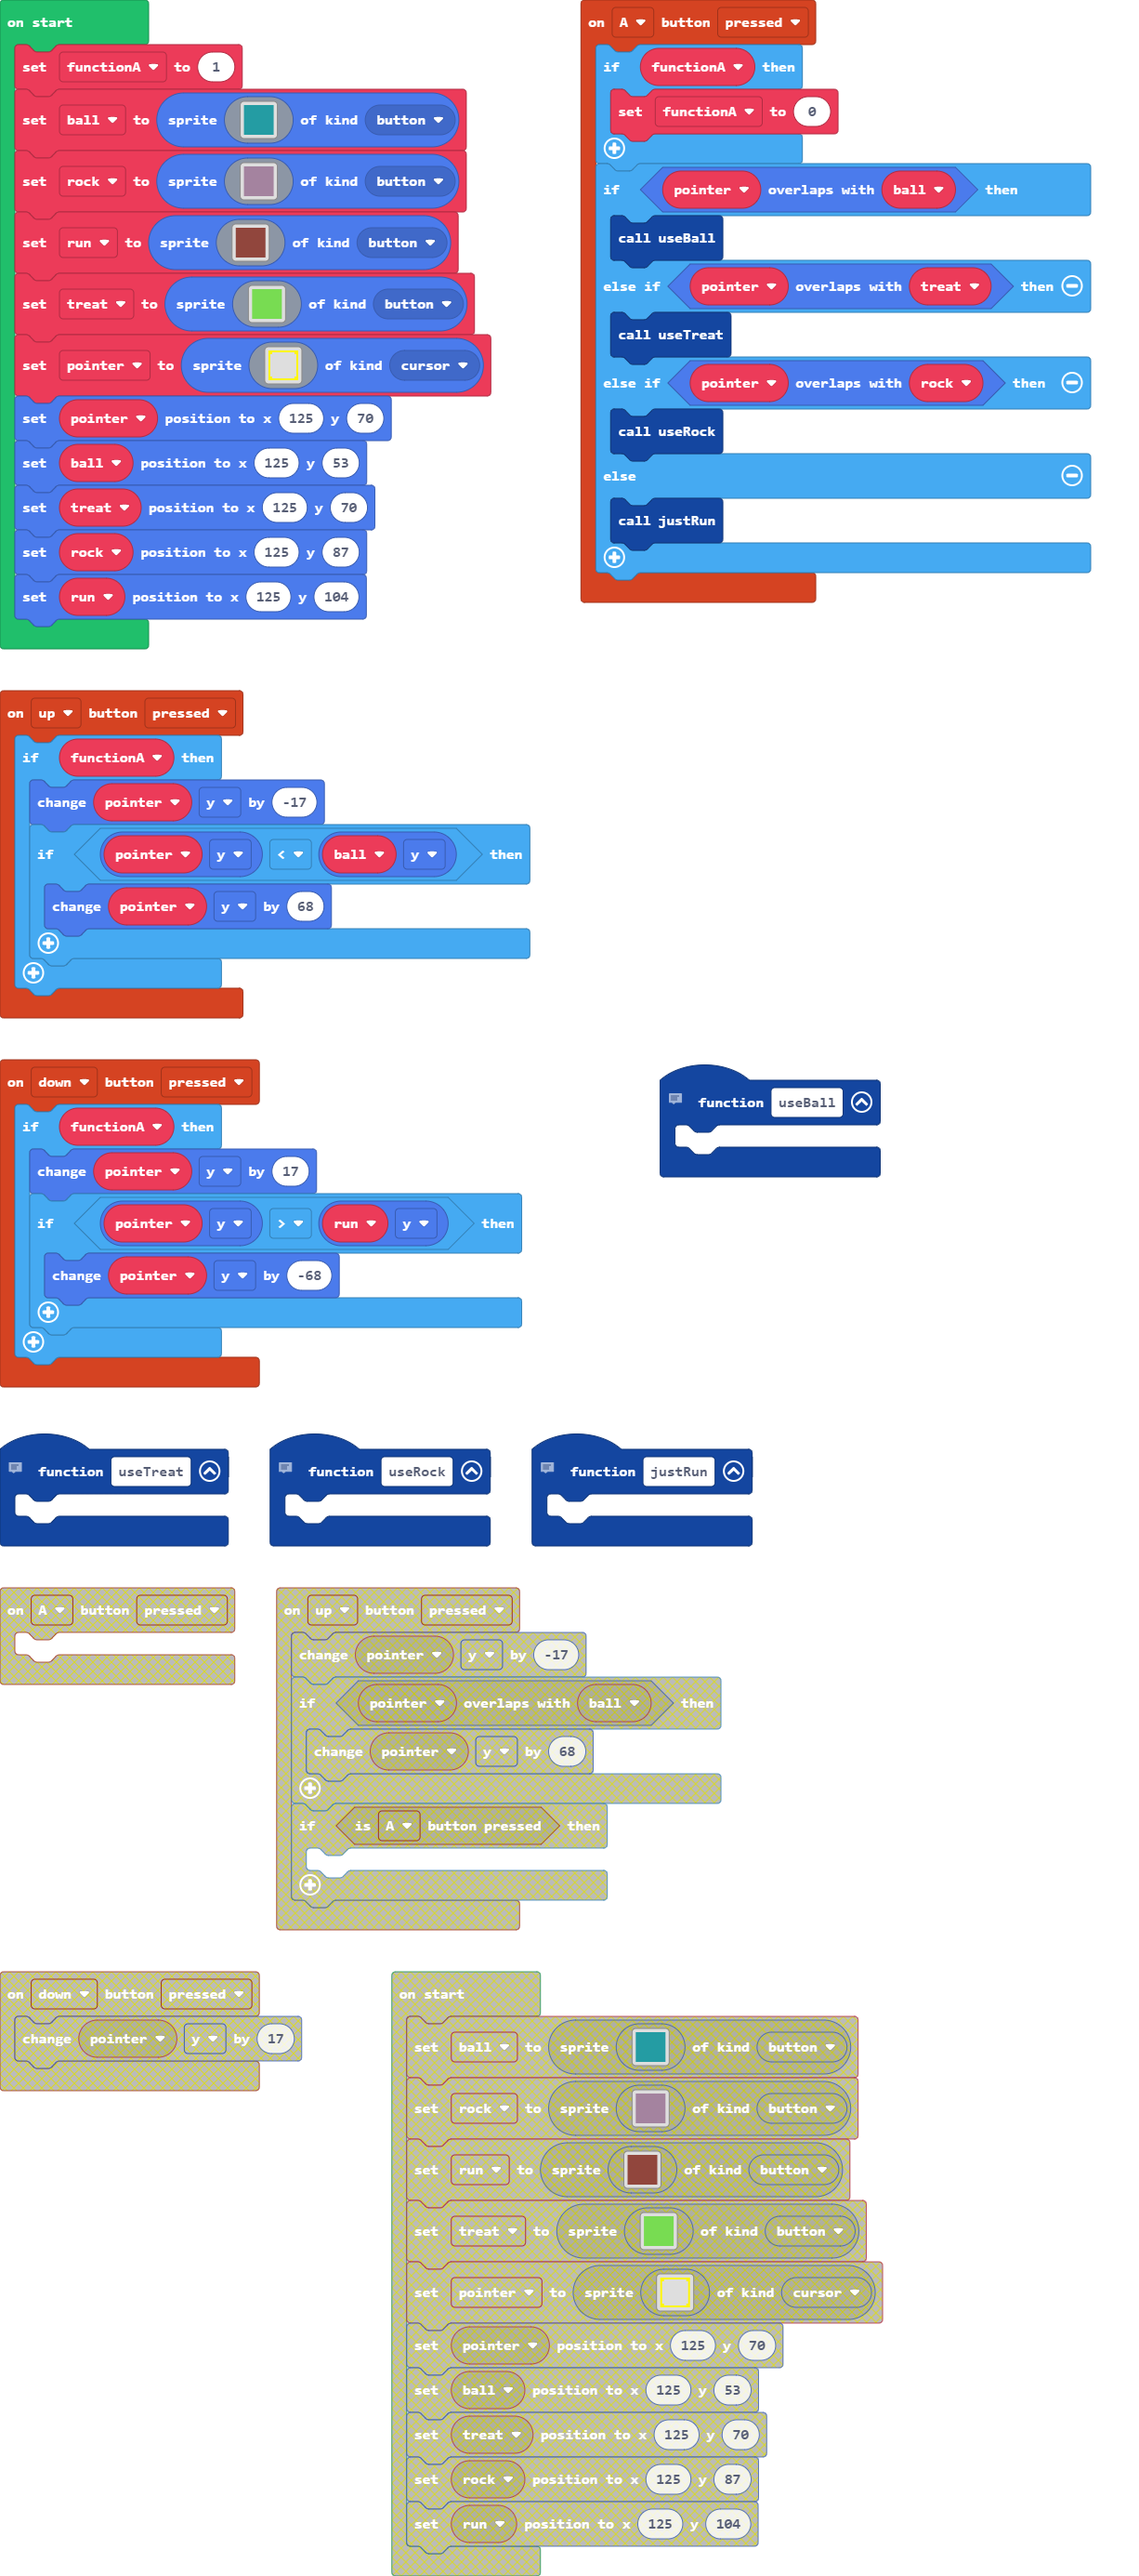
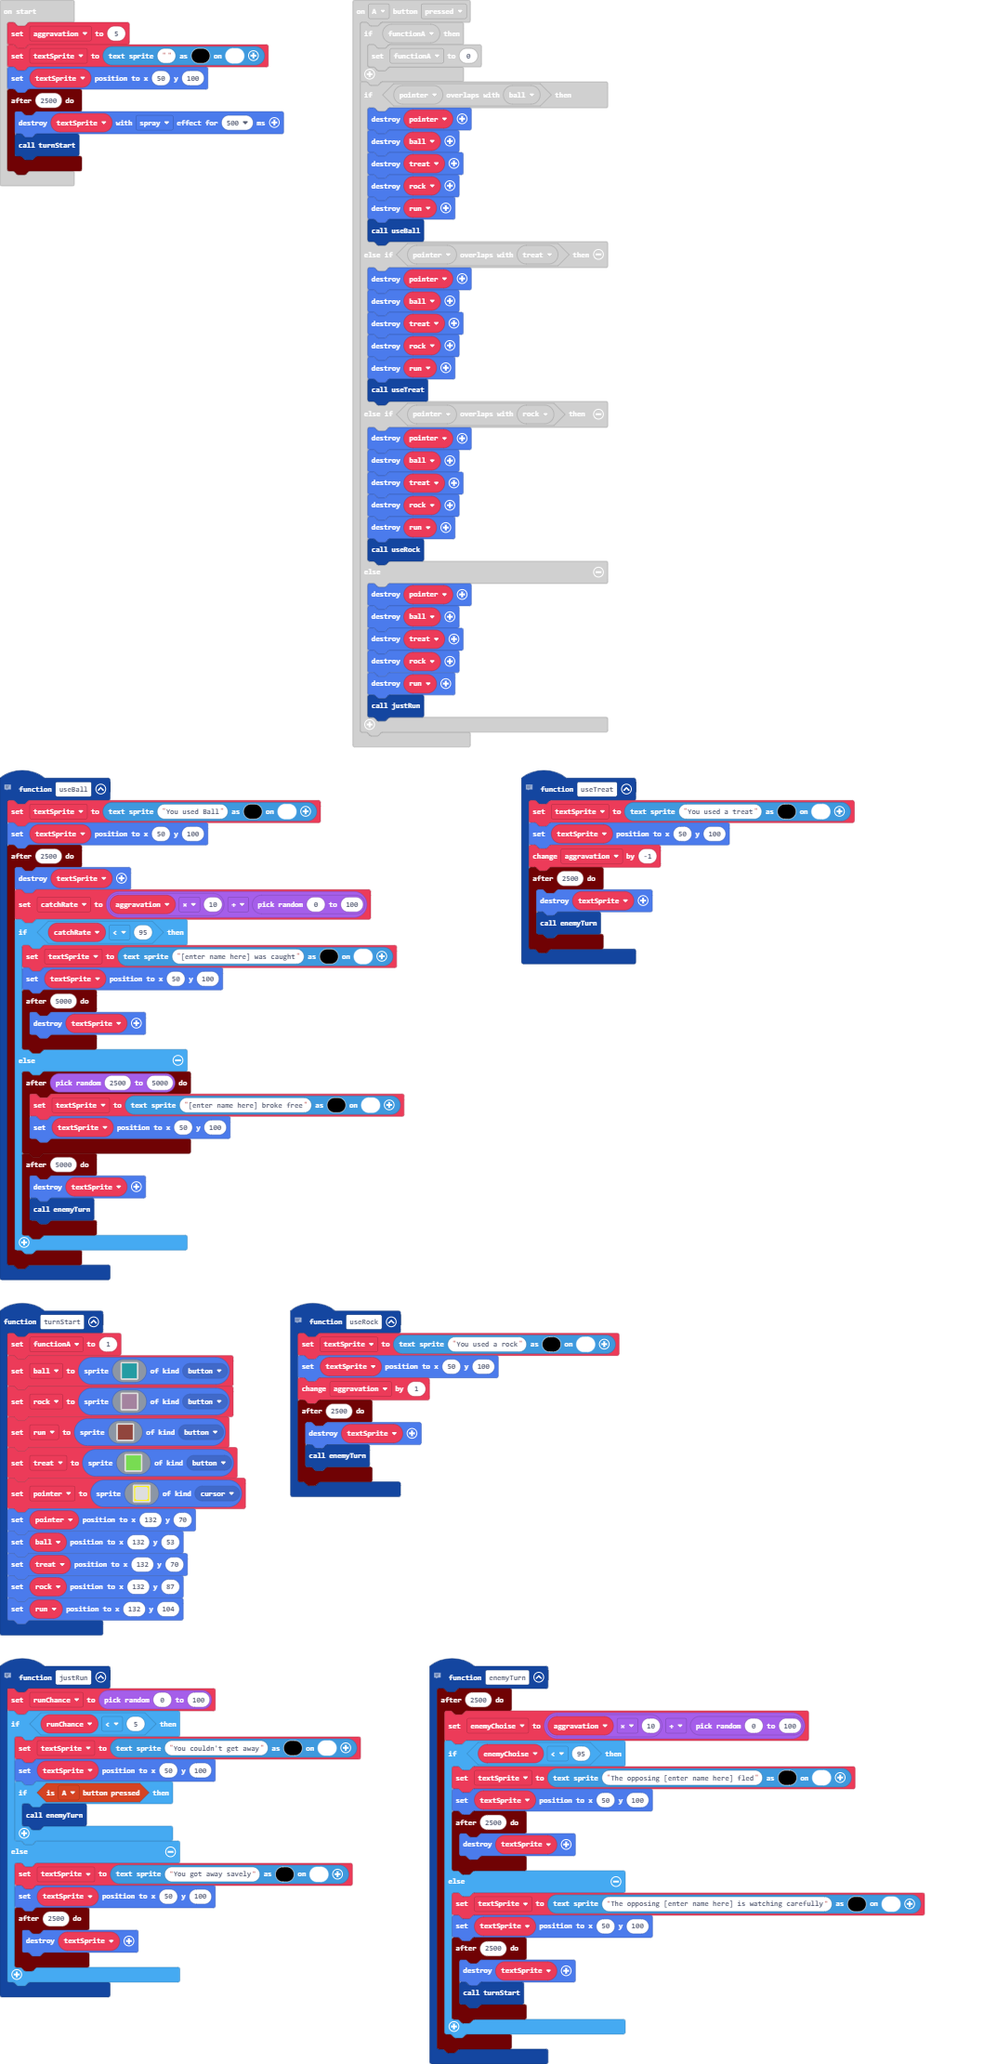
made more (functional) progress

diff --git a/main.ts b/main.ts
@@ -4,7 +4,13 @@ namespace SpriteKind {
 }
 // makes the player use a treat, wich makes it easier to catch, but more likely to run
 function useTreat () {
-	
+    textSprite = textsprite.create("You used a treat", 1, 15)
+    textSprite.setPosition(50, 100)
+    aggravation += -1
+    timer.after(2500, function () {
+        textSprite.destroy()
+        enemyTurn()
+    })
 }
 controller.up.onEvent(ControllerButtonEvent.Pressed, function () {
     if (functionA) {
@@ -19,22 +25,159 @@ controller.A.onEvent(ControllerButtonEvent.Pressed, function () {
         functionA = 0
     }
     if (pointer.overlapsWith(ball)) {
+        pointer.destroy()
+        ball.destroy()
+        treat.destroy()
+        rock.destroy()
+        run.destroy()
         useBall()
     } else if (pointer.overlapsWith(treat)) {
+        pointer.destroy()
+        ball.destroy()
+        treat.destroy()
+        rock.destroy()
+        run.destroy()
         useTreat()
     } else if (pointer.overlapsWith(rock)) {
+        pointer.destroy()
+        ball.destroy()
+        treat.destroy()
+        rock.destroy()
+        run.destroy()
         useRock()
     } else {
+        pointer.destroy()
+        ball.destroy()
+        treat.destroy()
+        rock.destroy()
+        run.destroy()
         justRun()
     }
 })
 // throw a rock to deal damage, making it harder to catch, but less likely to run
 function useRock () {
-	
+    textSprite = textsprite.create("You used a rock", 1, 15)
+    textSprite.setPosition(50, 100)
+    aggravation += 1
+    timer.after(2500, function () {
+        textSprite.destroy()
+        enemyTurn()
+    })
+}
+function turnStart () {
+    functionA = 1
+    ball = sprites.create(img`
+        6 6 6 6 6 6 6 6 6 6 6 6 6 6 6 6 
+        6 6 6 6 6 6 6 6 6 6 6 6 6 6 6 6 
+        6 6 6 6 6 6 6 6 6 6 6 6 6 6 6 6 
+        6 6 6 6 6 6 6 6 6 6 6 6 6 6 6 6 
+        6 6 6 6 6 6 6 6 6 6 6 6 6 6 6 6 
+        6 6 6 6 6 6 6 6 6 6 6 6 6 6 6 6 
+        6 6 6 6 6 6 6 6 6 6 6 6 6 6 6 6 
+        6 6 6 6 6 6 6 6 6 6 6 6 6 6 6 6 
+        6 6 6 6 6 6 6 6 6 6 6 6 6 6 6 6 
+        6 6 6 6 6 6 6 6 6 6 6 6 6 6 6 6 
+        6 6 6 6 6 6 6 6 6 6 6 6 6 6 6 6 
+        6 6 6 6 6 6 6 6 6 6 6 6 6 6 6 6 
+        6 6 6 6 6 6 6 6 6 6 6 6 6 6 6 6 
+        6 6 6 6 6 6 6 6 6 6 6 6 6 6 6 6 
+        6 6 6 6 6 6 6 6 6 6 6 6 6 6 6 6 
+        6 6 6 6 6 6 6 6 6 6 6 6 6 6 6 6 
+        `, SpriteKind.button)
+    rock = sprites.create(img`
+        b b b b b b b b b b b b b b b b 
+        b b b b b b b b b b b b b b b b 
+        b b b b b b b b b b b b b b b b 
+        b b b b b b b b b b b b b b b b 
+        b b b b b b b b b b b b b b b b 
+        b b b b b b b b b b b b b b b b 
+        b b b b b b b b b b b b b b b b 
+        b b b b b b b b b b b b b b b b 
+        b b b b b b b b b b b b b b b b 
+        b b b b b b b b b b b b b b b b 
+        b b b b b b b b b b b b b b b b 
+        b b b b b b b b b b b b b b b b 
+        b b b b b b b b b b b b b b b b 
+        b b b b b b b b b b b b b b b b 
+        b b b b b b b b b b b b b b b b 
+        b b b b b b b b b b b b b b b b 
+        `, SpriteKind.button)
+    run = sprites.create(img`
+        e e e e e e e e e e e e e e e e 
+        e e e e e e e e e e e e e e e e 
+        e e e e e e e e e e e e e e e e 
+        e e e e e e e e e e e e e e e e 
+        e e e e e e e e e e e e e e e e 
+        e e e e e e e e e e e e e e e e 
+        e e e e e e e e e e e e e e e e 
+        e e e e e e e e e e e e e e e e 
+        e e e e e e e e e e e e e e e e 
+        e e e e e e e e e e e e e e e e 
+        e e e e e e e e e e e e e e e e 
+        e e e e e e e e e e e e e e e e 
+        e e e e e e e e e e e e e e e e 
+        e e e e e e e e e e e e e e e e 
+        e e e e e e e e e e e e e e e e 
+        e e e e e e e e e e e e e e e e 
+        `, SpriteKind.button)
+    treat = sprites.create(img`
+        7 7 7 7 7 7 7 7 7 7 7 7 7 7 7 7 
+        7 7 7 7 7 7 7 7 7 7 7 7 7 7 7 7 
+        7 7 7 7 7 7 7 7 7 7 7 7 7 7 7 7 
+        7 7 7 7 7 7 7 7 7 7 7 7 7 7 7 7 
+        7 7 7 7 7 7 7 7 7 7 7 7 7 7 7 7 
+        7 7 7 7 7 7 7 7 7 7 7 7 7 7 7 7 
+        7 7 7 7 7 7 7 7 7 7 7 7 7 7 7 7 
+        7 7 7 7 7 7 7 7 7 7 7 7 7 7 7 7 
+        7 7 7 7 7 7 7 7 7 7 7 7 7 7 7 7 
+        7 7 7 7 7 7 7 7 7 7 7 7 7 7 7 7 
+        7 7 7 7 7 7 7 7 7 7 7 7 7 7 7 7 
+        7 7 7 7 7 7 7 7 7 7 7 7 7 7 7 7 
+        7 7 7 7 7 7 7 7 7 7 7 7 7 7 7 7 
+        7 7 7 7 7 7 7 7 7 7 7 7 7 7 7 7 
+        7 7 7 7 7 7 7 7 7 7 7 7 7 7 7 7 
+        7 7 7 7 7 7 7 7 7 7 7 7 7 7 7 7 
+        `, SpriteKind.button)
+    pointer = sprites.create(img`
+        5 5 5 5 5 5 5 5 5 5 5 5 5 5 5 5 
+        5 5 . . . . . . . . . . . . 5 5 
+        5 . . . . . . . . . . . . . . 5 
+        5 . . . . . . . . . . . . . . 5 
+        5 . . . . . . . . . . . . . . 5 
+        5 . . . . . . . . . . . . . . 5 
+        5 . . . . . . . . . . . . . . 5 
+        5 . . . . . . . . . . . . . . 5 
+        5 . . . . . . . . . . . . . . 5 
+        5 . . . . . . . . . . . . . . 5 
+        5 . . . . . . . . . . . . . . 5 
+        5 . . . . . . . . . . . . . . 5 
+        5 . . . . . . . . . . . . . . 5 
+        5 . . . . . . . . . . . . . . 5 
+        5 5 . . . . . . . . . . . . 5 5 
+        5 5 5 5 5 5 5 5 5 5 5 5 5 5 5 5 
+        `, SpriteKind.cursor)
+    pointer.setPosition(132, 70)
+    ball.setPosition(132, 53)
+    treat.setPosition(132, 70)
+    rock.setPosition(132, 87)
+    run.setPosition(132, 104)
 }
 // make it return to the map here
 function justRun () {
-	
+    runChance = randint(0, 100)
+    if (runChance < 5) {
+        textSprite = textsprite.create("You couldn't get away", 1, 15)
+        textSprite.setPosition(50, 100)
+        if (controller.A.isPressed()) {
+            enemyTurn()
+        }
+    } else {
+        textSprite = textsprite.create("You got away savely", 1, 15)
+        textSprite.setPosition(50, 100)
+        timer.after(2500, function () {
+            textSprite.destroy()
+        })
+    }
 }
 controller.down.onEvent(ControllerButtonEvent.Pressed, function () {
     if (functionA) {
@@ -44,109 +187,66 @@ controller.down.onEvent(ControllerButtonEvent.Pressed, function () {
         }
     }
 })
+// make the enemy make its move
+function enemyTurn () {
+    timer.after(2500, function () {
+        enemyChoise = aggravation * 10 + randint(0, 100)
+        if (enemyChoise < 95) {
+            textSprite = textsprite.create("The opposing [enter name here] fled", 1, 15)
+            textSprite.setPosition(50, 100)
+            timer.after(2500, function () {
+                textSprite.destroy()
+            })
+        } else {
+            textSprite = textsprite.create("The opposing [enter name here] is watching carefully", 1, 15)
+            textSprite.setPosition(50, 100)
+            timer.after(2500, function () {
+                textSprite.destroy()
+                turnStart()
+            })
+        }
+    })
+}
 // makes the player throw the ball if selected
 function useBall () {
-	
+    textSprite = textsprite.create("You used Ball", 1, 15)
+    textSprite.setPosition(50, 100)
+    timer.after(2500, function () {
+        textSprite.destroy()
+        catchRate = aggravation * 10 + randint(0, 100)
+        if (catchRate < 95) {
+            textSprite = textsprite.create("[enter name here] was caught", 1, 15)
+            textSprite.setPosition(50, 100)
+            timer.after(5000, function () {
+                textSprite.destroy()
+            })
+        } else {
+            timer.after(randint(2500, 5000), function () {
+                textSprite = textsprite.create("[enter name here] broke free", 1, 15)
+                textSprite.setPosition(50, 100)
+            })
+            timer.after(5000, function () {
+                textSprite.destroy()
+                enemyTurn()
+            })
+        }
+    })
 }
-let pointer: Sprite = null
-let treat: Sprite = null
+let catchRate = 0
+let enemyChoise = 0
+let runChance = 0
 let run: Sprite = null
 let rock: Sprite = null
+let treat: Sprite = null
 let ball: Sprite = null
+let pointer: Sprite = null
 let functionA = 0
-functionA = 1
-ball = sprites.create(img`
-    6 6 6 6 6 6 6 6 6 6 6 6 6 6 6 6 
-    6 6 6 6 6 6 6 6 6 6 6 6 6 6 6 6 
-    6 6 6 6 6 6 6 6 6 6 6 6 6 6 6 6 
-    6 6 6 6 6 6 6 6 6 6 6 6 6 6 6 6 
-    6 6 6 6 6 6 6 6 6 6 6 6 6 6 6 6 
-    6 6 6 6 6 6 6 6 6 6 6 6 6 6 6 6 
-    6 6 6 6 6 6 6 6 6 6 6 6 6 6 6 6 
-    6 6 6 6 6 6 6 6 6 6 6 6 6 6 6 6 
-    6 6 6 6 6 6 6 6 6 6 6 6 6 6 6 6 
-    6 6 6 6 6 6 6 6 6 6 6 6 6 6 6 6 
-    6 6 6 6 6 6 6 6 6 6 6 6 6 6 6 6 
-    6 6 6 6 6 6 6 6 6 6 6 6 6 6 6 6 
-    6 6 6 6 6 6 6 6 6 6 6 6 6 6 6 6 
-    6 6 6 6 6 6 6 6 6 6 6 6 6 6 6 6 
-    6 6 6 6 6 6 6 6 6 6 6 6 6 6 6 6 
-    6 6 6 6 6 6 6 6 6 6 6 6 6 6 6 6 
-    `, SpriteKind.button)
-rock = sprites.create(img`
-    b b b b b b b b b b b b b b b b 
-    b b b b b b b b b b b b b b b b 
-    b b b b b b b b b b b b b b b b 
-    b b b b b b b b b b b b b b b b 
-    b b b b b b b b b b b b b b b b 
-    b b b b b b b b b b b b b b b b 
-    b b b b b b b b b b b b b b b b 
-    b b b b b b b b b b b b b b b b 
-    b b b b b b b b b b b b b b b b 
-    b b b b b b b b b b b b b b b b 
-    b b b b b b b b b b b b b b b b 
-    b b b b b b b b b b b b b b b b 
-    b b b b b b b b b b b b b b b b 
-    b b b b b b b b b b b b b b b b 
-    b b b b b b b b b b b b b b b b 
-    b b b b b b b b b b b b b b b b 
-    `, SpriteKind.button)
-run = sprites.create(img`
-    e e e e e e e e e e e e e e e e 
-    e e e e e e e e e e e e e e e e 
-    e e e e e e e e e e e e e e e e 
-    e e e e e e e e e e e e e e e e 
-    e e e e e e e e e e e e e e e e 
-    e e e e e e e e e e e e e e e e 
-    e e e e e e e e e e e e e e e e 
-    e e e e e e e e e e e e e e e e 
-    e e e e e e e e e e e e e e e e 
-    e e e e e e e e e e e e e e e e 
-    e e e e e e e e e e e e e e e e 
-    e e e e e e e e e e e e e e e e 
-    e e e e e e e e e e e e e e e e 
-    e e e e e e e e e e e e e e e e 
-    e e e e e e e e e e e e e e e e 
-    e e e e e e e e e e e e e e e e 
-    `, SpriteKind.button)
-treat = sprites.create(img`
-    7 7 7 7 7 7 7 7 7 7 7 7 7 7 7 7 
-    7 7 7 7 7 7 7 7 7 7 7 7 7 7 7 7 
-    7 7 7 7 7 7 7 7 7 7 7 7 7 7 7 7 
-    7 7 7 7 7 7 7 7 7 7 7 7 7 7 7 7 
-    7 7 7 7 7 7 7 7 7 7 7 7 7 7 7 7 
-    7 7 7 7 7 7 7 7 7 7 7 7 7 7 7 7 
-    7 7 7 7 7 7 7 7 7 7 7 7 7 7 7 7 
-    7 7 7 7 7 7 7 7 7 7 7 7 7 7 7 7 
-    7 7 7 7 7 7 7 7 7 7 7 7 7 7 7 7 
-    7 7 7 7 7 7 7 7 7 7 7 7 7 7 7 7 
-    7 7 7 7 7 7 7 7 7 7 7 7 7 7 7 7 
-    7 7 7 7 7 7 7 7 7 7 7 7 7 7 7 7 
-    7 7 7 7 7 7 7 7 7 7 7 7 7 7 7 7 
-    7 7 7 7 7 7 7 7 7 7 7 7 7 7 7 7 
-    7 7 7 7 7 7 7 7 7 7 7 7 7 7 7 7 
-    7 7 7 7 7 7 7 7 7 7 7 7 7 7 7 7 
-    `, SpriteKind.button)
-pointer = sprites.create(img`
-    5 5 5 5 5 5 5 5 5 5 5 5 5 5 5 5 
-    5 5 . . . . . . . . . . . . 5 5 
-    5 . . . . . . . . . . . . . . 5 
-    5 . . . . . . . . . . . . . . 5 
-    5 . . . . . . . . . . . . . . 5 
-    5 . . . . . . . . . . . . . . 5 
-    5 . . . . . . . . . . . . . . 5 
-    5 . . . . . . . . . . . . . . 5 
-    5 . . . . . . . . . . . . . . 5 
-    5 . . . . . . . . . . . . . . 5 
-    5 . . . . . . . . . . . . . . 5 
-    5 . . . . . . . . . . . . . . 5 
-    5 . . . . . . . . . . . . . . 5 
-    5 . . . . . . . . . . . . . . 5 
-    5 5 . . . . . . . . . . . . 5 5 
-    5 5 5 5 5 5 5 5 5 5 5 5 5 5 5 5 
-    `, SpriteKind.cursor)
-pointer.setPosition(125, 70)
-ball.setPosition(125, 53)
-treat.setPosition(125, 70)
-rock.setPosition(125, 87)
-run.setPosition(125, 104)
+let textSprite: TextSprite = null
+let aggravation = 0
+aggravation = 5
+textSprite = textsprite.create("", 1, 15)
+textSprite.setPosition(50, 100)
+timer.after(2500, function () {
+    textSprite.destroy()
+    turnStart()
+})
